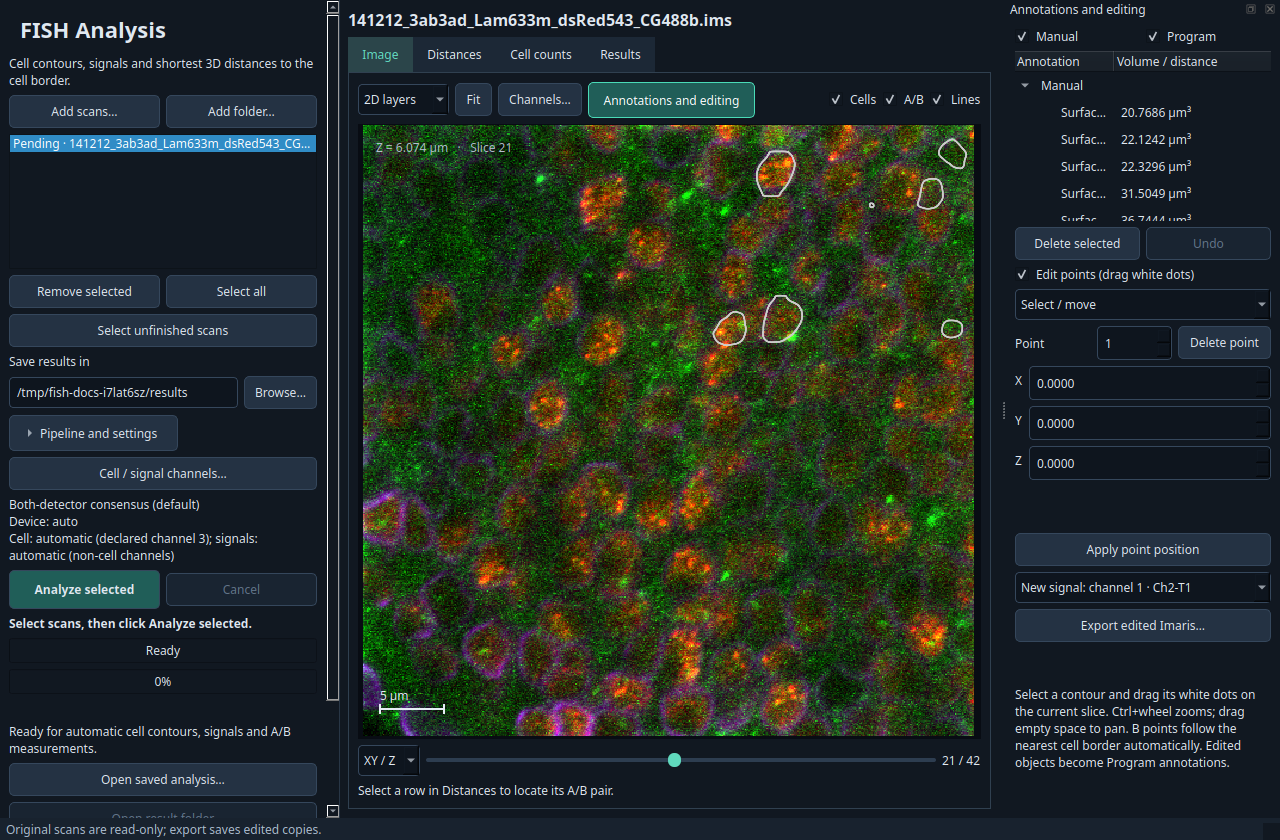
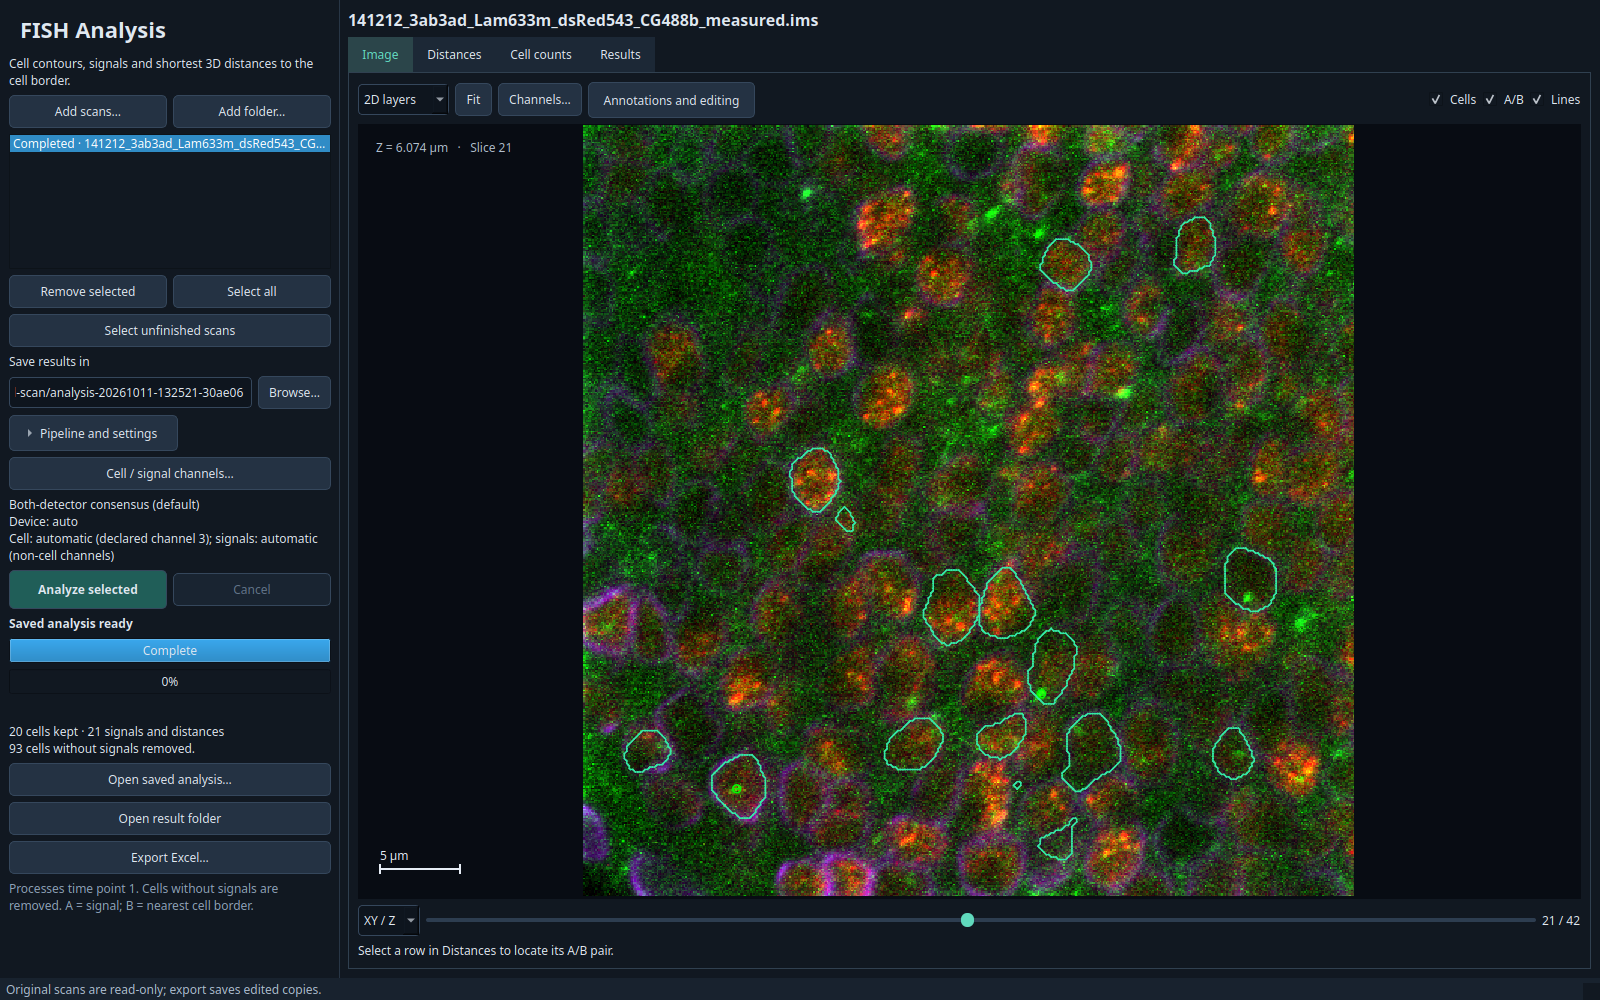
Prepare v0.8.2 with current pipeline evidence and real app screenshots

diff --git a/scripts/capture_docs_screenshots.py b/scripts/capture_docs_screenshots.py
@@ -1,5 +1,6 @@
 """Capture the actual Analysis window with a read-only scan and isolated settings."""
 import argparse
+import json
 import os
 from pathlib import Path
 import sys
@@ -14,6 +15,8 @@ def main():
     parser = argparse.ArgumentParser(description=__doc__)
     parser.add_argument('--scan', type=Path, default=ROOT / 'FISH/3abx3ad_101212/141212_3ab3ad_Lam633m_dsRed543_CG488b.imx')
     parser.add_argument('--output', type=Path, default=ROOT / 'docs/images/analysis.png')
+    parser.add_argument('--analysis-result', type=Path, help='Open a completed real analysis instead of the original scan.')
+    parser.add_argument('--gallery', action='store_true', help='Also capture contour review and measured distances.')
     args = parser.parse_args()
     os.environ.setdefault('QT_QPA_PLATFORM', 'offscreen')
     from PySide6 import QtCore, QtWidgets
@@ -24,12 +27,17 @@ def main():
     with tempfile.TemporaryDirectory(prefix='fish-docs-') as temporary:
         settings = QtCore.QSettings(str(Path(temporary) / 'settings.ini'), QtCore.QSettings.Format.IniFormat)
         window = AnalysisWindow(off_screen=True, settings=settings)
-        window.resize(1280, 840)
+        window.resize(1600, 1000)
         window.output.setText(str(Path(temporary) / 'results'))
         errors = []
         window.error = errors.append
         window.show()
-        window.add_paths([args.scan.resolve()])
+        window.resize(1600, 1000)
+        if args.analysis_result:
+            manifest = json.loads(args.analysis_result.read_text())
+            window.add_paths([Path(manifest.get('source_scene') or manifest['source'])])
+        else:
+            window.add_paths([args.scan.resolve()])
         deadline = time.monotonic() + 60
         while (window.dataset is None or window.loading or window._jobs) and not errors:
             app.processEvents()
@@ -38,11 +46,56 @@ def main():
             time.sleep(.01)
         if errors:
             raise RuntimeError('\n'.join(errors))
+        if args.analysis_result:
+            window.load_result(args.analysis_result)
+            while window.loading or window._jobs:
+                app.processEvents()
+                if errors:
+                    raise RuntimeError('\n'.join(errors))
+                if time.monotonic() >= deadline:
+                    raise TimeoutError('The saved analysis did not load within 60 seconds.')
+                time.sleep(.01)
+            window.set_scan_status(window.scans.item(0), 'completed')
+            window.output.setText(str(args.analysis_result.parent))
+            window.editor.manual.setChecked(False)
+        window.annotation_dock.hide()
+        app.processEvents()
         window.slice_view.fit()
         app.processEvents()
         args.output.parent.mkdir(parents=True, exist_ok=True)
         if not window.grab().save(str(args.output)):
             raise OSError(f'Could not save screenshot: {args.output}')
+        if args.gallery:
+            if not args.analysis_result:
+                raise ValueError('--gallery requires --analysis-result for actual measurements.')
+            window.annotation_dock.show()
+            candidates = [i for i in range(window.distances.rowCount()) if window.distances.item(i, 0).text().startswith('Program')]
+            # Prefer an A-B pair lying in the displayed XY slice.
+            def slice_offset(row):
+                point = window.distances.item(row, 0).data(QtCore.Qt.ItemDataRole.UserRole)
+                return abs(point['xyz'][2]-point['border_xyz'][2])
+            row = min(candidates, key=slice_offset)
+            window.distances.selectRow(row)
+            window.focus_measurement()
+            window.slice_view.scale(.25, .25)
+            selection = window.slice_view.selected
+            tree = window.editor.tree
+            tree.topLevelItem(0).setExpanded(False)
+            program = tree.topLevelItem(1)
+            for index in range(program.childCount()):
+                item = program.child(index)
+                if item.data(0, QtCore.Qt.ItemDataRole.UserRole) == selection:
+                    tree.setCurrentItem(item)
+                    tree.scrollToItem(item)
+                    break
+            app.processEvents()
+            if not window.grab().save(str(args.output.with_name('editing.png'))):
+                raise OSError('Could not save editing screenshot.')
+            window.annotation_dock.hide()
+            window.tabs.setCurrentIndex(1)
+            app.processEvents()
+            if not window.grab().save(str(args.output.with_name('distances.png'))):
+                raise OSError('Could not save distances screenshot.')
         window.close()
         app.processEvents()
     print(args.output)

diff --git a/scripts/plot_pipeline_comparison.py b/scripts/plot_pipeline_comparison.py
@@ -1,0 +1,58 @@
+"""Render current-preset measurement evidence from the retained JSON reports."""
+import json
+from pathlib import Path
+
+from matplotlib.backends.backend_agg import FigureCanvasAgg
+from matplotlib.figure import Figure
+import numpy as np
+
+ROOT = Path(__file__).resolve().parents[1]
+
+
+def main():
+    consensus = json.loads((ROOT / 'reports/consensus-correct-channels/summary.json').read_text())
+    stardist = json.loads((ROOT / 'reports/stardist2d/distances/report.json').read_text())
+    assert consensus['status'] == stardist['status'] == 'complete'
+    rows = [consensus['summary']['test'], stardist['summary']]
+    assert all(row['scans'] == 71 for row in rows)
+    labels = ['Both-detector\nconsensus', 'Fine-tuned\nStarDist 2D']
+    colors = ['#168b87', '#7163bb']
+    figure = Figure(figsize=(12, 5.8), facecolor='#f7f9fc')
+    FigureCanvasAgg(figure)
+    axes = figure.subplots(1, 2)
+    figure.subplots_adjust(left=.08, right=.97, bottom=.25, top=.73, wspace=.34)
+    for axis, (metric, key, title, unit, limit) in zip(axes, [
+        ('volume', 'mape_percent', 'Cell volume error', 'Mean absolute percentage error (%)', 14),
+        ('distance', 'mae', 'Signal-to-border distance error', 'Mean absolute error (µm)', .25),
+    ]):
+        values = np.array([row[metric][key] for row in rows])
+        interval_key = 'mape_95ci_acquisition_bootstrap' if metric == 'volume' else 'mae_95ci_acquisition_bootstrap'
+        intervals = np.array([row[metric][interval_key] for row in rows])
+        axis.set_facecolor('#f7f9fc')
+        axis.bar(range(2), values, width=.48, color=colors, zorder=3)
+        axis.errorbar(range(2), values, yerr=np.stack([values-intervals[:, 0], intervals[:, 1]-values]),
+                      fmt='none', color='#25364d', capsize=5, zorder=4)
+        for index, (value, interval, row) in enumerate(zip(values, intervals, rows)):
+            label = f'{value:.2f}%' if metric == 'volume' else f'{value:.3f} µm'
+            axis.text(index, interval[1]+limit*.04, label, ha='center', fontsize=13, weight='bold', color='#25364d')
+            axis.text(index, -limit*.23, f"{row[metric]['n']} matched {'cells' if metric == 'volume' else 'signals'}",
+                      ha='center', fontsize=10, color='#596b80')
+        axis.set(xticks=range(2), xticklabels=labels, ylim=(0, limit), ylabel=unit)
+        axis.set_title(title, loc='left', fontsize=14, weight='bold', pad=16, color='#25364d')
+        axis.spines[['top', 'right', 'left']].set_visible(False)
+        axis.spines['bottom'].set_color('#cbd5e1')
+        axis.tick_params(length=0, labelcolor='#25364d', pad=8)
+        axis.grid(axis='y', color='#e1e7ef', zorder=0)
+        axis.set_axisbelow(True)
+    figure.text(.08, .94, 'Two cell pipelines. One measurement workflow.', fontsize=21, weight='bold', color='#192c43')
+    figure.text(.08, .87, '71 historical test scans · roundness ≥ 0.72 · signal-center 3D U-Net', fontsize=12, color='#596b80')
+    figure.text(.08, .06, 'Whiskers: 95% acquisition-bootstrap intervals. Different matched subsets and channel protocols;\n'
+                'these report summaries are not a paired ranking or a measure of whole-field detection accuracy.',
+                fontsize=10, color='#596b80', linespacing=1.6)
+    destination = ROOT / 'docs/images/pipeline-comparison.png'
+    figure.savefig(destination, dpi=180)
+    print(destination)
+
+
+if __name__ == '__main__':
+    main()

diff --git a/fish_viewer/__init__.py b/fish_viewer/__init__.py
@@ -1,3 +1,3 @@
 """FISH Viewer. Image and scene readers also work without starting the GUI."""
 
-__version__ = "0.8.1"
+__version__ = "0.8.2"

diff --git a/docs/release-notes.md b/docs/release-notes.md
@@ -1,77 +1,53 @@
-# FISH Analysis v0.8.1
+# FISH Analysis v0.8.2
 
-[Documentation](README.md) · [Models](models.md) · [Analysis](fish-analysis.md)
+This release improves scan review, documents the current cell pipelines and fixes
+Linux offline startup. All existing checkpoints remain bundled; model weights and
+the default both-detector consensus / signal-center 3D U-Net are unchanged.
 
-The Linux AppImage supports CUDA for **both TensorFlow cell contouring and
-PyTorch signal detection**. On first launch, it automatically downloads the
-neural runtime from this release and shows download/installation progress.
-Each download and extracted library is checked against SHA-256 hashes embedded
-in the AppImage. Models are included in the AppImage. Allow about 11 GB free
-for initial setup; later launches reuse about 8 GB of cached libraries offline.
-You only need to download and launch the AppImage; the `.runtime.part*` assets
-are fetched automatically, with no manual joining or installation.
+## Review and processing
 
-Choose auto/CPU/GPU under Pipeline and settings. Auto uses an available NVIDIA
-GPU and otherwise runs on CPU. A compatible host NVIDIA driver is required;
-Python and a separate CUDA toolkit are not required. The Windows EXE retains
-CPU inference and bundled Microsoft C++ runtime DLLs. CPU packages no longer
-expose an unsupported GPU option or restore an incompatible saved selection.
+- A processing summary shows the selected preset, device and channel roles.
+- Scan rows show pending, running, completed, failed or cancelled status, with
+  channel warnings and failure details. **Select unfinished scans** prepares retries.
+- **Annotations and editing** opens beside the image for contour and point editing.
+- The **Results** tab summarizes manual/program cells, signals and distances, with
+  direct access to exported files, Excel and edited Imaris scenes.
+- Shared worker startup, cancellation and bundled-model discovery were refactored.
 
-`--check-runtime --device gpu` verifies a TensorFlow 3D convolution and the
-default signal-center U-Net on CUDA in separate workers. GitHub Actions builds
-both platforms automatically and checks installed inference, model checkpoints,
-Imaris export and single-sheet Excel export on CPU. GPU execution is checked
-separately on a machine with an NVIDIA GPU.
+## Linux startup
 
-The models, default both-detector consensus pipeline and metrics are unchanged.
+The AppImage automatically detects matching `.runtime.part*` assets beside it,
+including when launched from the desktop. Keep the original filenames. Downloading
+these files beforehand supports offline first-launch installation; otherwise the
+app downloads and verifies them from this release. Completed download chunks are
+retained if setup is interrupted. Allow about 11 GB free for first-launch setup
+and about 8 GB for the installed runtime.
 
-Contour editing now shows only the current slice's border points. Select a
-contour and drag its dots directly; the grab area is 24 screen pixels across
-at every zoom level, with overlapping targets choosing the nearest dot.
-Connected border lines follow the dot during dragging. Editing a 3D slice
-makes its intersections explicit mesh vertices so moving one point keeps the
-other points on that slice fixed. Ctrl+Z restores the entire edit, and edited
-volumes, signal-to-border distances and exported geometry remain synchronized.
+Linux bundles CUDA support for TensorFlow and PyTorch; a compatible NVIDIA driver
+is required for GPU inference. Windows uses CPU inference and includes its required
+Microsoft C++ runtime DLLs. No Python installation is required on either platform.
 
-All existing models and presets are bundled. Both-detector consensus remains
-the default, with the signal-center 3D U-Net. No model weights were changed.
+## Documentation and evidence
 
-## Updated model metrics
+The README includes real screenshots of completed contour review and measurements,
+a workflow diagram for both-detector consensus and fine-tuned StarDist 2D, and a
+measurement-error chart generated from the retained test reports. The chart shows
+sample sizes and confidence intervals; the two reports use different matched
+populations and channel protocols, so it is not a paired accuracy ranking.
 
-All **144 held-out scans** were evaluated using explicit membrane channels,
-including **58 corrected channel assignments**, and the current app's
-**0.72 roundness gate**. Unchanged-channel cell runs were reused only after
-checking model hashes and input fingerprints; signal inference, filtering and
-measurements were rerun on every scan.
+Historical logs, runs and generated caches were removed from the source workspace;
+original training inputs, bundled checkpoints and evaluation reports were retained.
+See the training-data guide for rebuilding caches before retraining.
 
-| Split | Scans | Matched cells / signals | Volume MAPE | Distance MAE | Distance RMSE |
-|---|---:|---:|---:|---:|---:|
-| Test | 71 | 299 / 270 | 8.59% | 0.130 µm | 0.178 µm |
-| Validation | 73 | 359 / 332 | 5.95% | 0.118 µm | 0.160 µm |
-| All held-out | 144 | 658 / 602 | 7.15% | 0.123 µm | 0.168 µm |
+## Verification
 
-Comparisons use matched complete manual cells and matched same-channel signals
-with actual manual A–B measurements. All outliers are included. Test volumes
-remain 7.86% too small on average, and distances average 0.077 µm too short.
-Acquisition-bootstrap 95% intervals: test volume MAPE 5.67–11.80%; distance
-MAE 0.109–0.146 µm. Sparse annotations do not establish detection precision;
-validation guided model selection and the historical test fold was inspected
-in prior experiments. Reports, individual measurement pairs, channel assignments
-and the reproducible benchmark are included under
-`reports/consensus-correct-channels/` and `scripts/benchmark_consensus_channels.py`.
+The corrected local Linux AppImage passed normal cold-cache startup with network
+access blocked, every default pipeline stage on an original scan, Imaris/Excel
+exports and reopening the results. That example retained 20 cells and 21 signals;
+these counts are a functionality check, not an accuracy estimate. The source suite
+passed 330 tests (7 optional checks skipped).
 
-## Distribution and verification
-
-Download the EXE on Windows, or make the AppImage executable on Linux.
-See `docs/releasing.md` for runtime requirements and the FUSE-free launch option.
-
-Contour dragging, fixed neighbor positions, live line updates, repeated edits,
-mesh closure, undo, edited export/reload, and the real Linux GUI were verified.
-
-## Attribution
-
-StarDist 2D: Schmidt, Weigert, Broaddus and Myers, **Cell Detection with Star-convex
-Polygons**, MICCAI 2018, [paper](https://arxiv.org/abs/1806.03535),
-[DOI](https://doi.org/10.1007/978-3-030-00934-2_30). The optional fine-tuned 2D
-checkpoint retains its upstream BSD-3-Clause license. Model provenance and exact
-checkpoint hashes are bundled in `models/origins.json`.
+Release publication requires both Windows and Linux packaged applications to pass
+checkpoint loading, CPU runtime checks and the full synthetic consensus pipeline.
+Linux runtime installation is tested with adjacent assets, no directory override
+and network access blocked. GPU execution was additionally checked locally.

diff --git a/README.md b/README.md
@@ -8,10 +8,11 @@ and export Imaris, Excel and CSV results. Original scans and annotations are rea
 **[Analysis guide](docs/fish-analysis.md)** · **[Documentation](docs/README.md)** ·
 **[Models and evidence](docs/models.md)**
 
-![FISH Analysis displaying a microscopy scan](docs/images/analysis.png)
+![FISH Analysis reviewing consensus cell contours on an original microscopy scan](docs/images/analysis.png)
 
-*The running source app displaying an original scan and its saved manual annotations.
-This screenshot shows viewing, not an automatic analysis result.*
+*A completed both-detector consensus analysis, opened in the running app.
+Turquoise contours show retained cells; the original fluorescence remains visible.
+This example produced 20 cells and 21 signals.*
 
 ## Get started
 
@@ -21,6 +22,8 @@ Download the Windows EXE or Linux AppImage from the release page. Windows includ
 a CPU runtime. Linux downloads and verifies its neural runtime on first launch;
 allow about 11 GB free during setup and about 8 GB for the retained runtime.
 Later launches reuse the installed runtime. See [installation and releases](docs/releasing.md).
+For offline setup, download both matching `.runtime.part*` files beside the
+AppImage and keep their original filenames; the app detects them automatically.
 
 ### Run from source
 
@@ -44,7 +47,7 @@ for a minimal installation without neural dependencies.
 1. Add scans or a folder and select the scans to process.
 2. Check the cell and signal channel roles; fluorescence channel order varies by scan.
 3. Choose an output folder and review **Pipeline and settings**.
-4. Click **Analyze selected**, then inspect **Image**, **Distances** and **Cell counts**.
+4. Click **Analyze selected**, then inspect **Image**, **Distances**, **Cell counts** and **Results**.
 5. Keep exported `.imx` and `.ims` files together; open the `.imx` in Imaris.
 
 The default uses **both-detector consensus** and the **signal-center 3D U-Net**.
@@ -53,15 +56,31 @@ Other fixed presets and manual editing are described in the [Analysis guide](doc
 
 ```mermaid
 flowchart LR
-    A[Scan and channel roles] --> B[Cell contours]
-    B --> C[Signals inside cells]
-    C --> D[Retain cells with signals]
-    D --> E[Shortest 3D distances to borders]
-    E --> F[Imaris / Excel / CSV]
+    A[Scan + cell channel] --> B[Both-detector consensus · default]
+    A --> C[Fine-tuned StarDist 2D]
+    B --> D[3D StarDist + center/box detector<br/>Surface-loss contours + agreement gate]
+    C --> E[XY polygons linked into 3D cells]
+    D --> F[Roundness filter]
+    E --> F
+    F --> G[Signal-center 3D U-Net]
+    G --> H[Retain cells with signals]
+    H --> I[Shortest 3D distances to borders]
+    I --> J[Review + Imaris / Excel / CSV]
 ```
 
 Each stage runs in a separate worker process. Results are saved separately from
 source data; cancellation preserves completed runs.
+
+### Review contours and measurements
+
+| Inspect a signal and its nearest border | Review manual and program measurements |
+|---|---|
+| ![Signal A, nearest border B and editable cell contours in the running app](docs/images/editing.png) | ![Manual and automatic signal-to-border measurements in the Distances tab](docs/images/distances.png) |
+
+Select a measurement to locate its A–B segment in the image. Open
+**Annotations and editing** to inspect contours or adjust points; edited geometry,
+volumes, distances and exports stay synchronized. Manual annotations and automatic
+results can be shown separately. See the [review and export guide](docs/fish-analysis.md).
 
 ## Models and measured limits
 
@@ -69,11 +88,14 @@ All current checkpoints are in [`models/`](models/); their evaluation reports,
 plots and tables are in [`reports/`](reports/). Start with the [model inventory](docs/models.md)
 and [evaluation guide](docs/evaluation.md).
 
-![Signal model precision and recall on the fixed test cohort](docs/images/signal-models.png)
+![Both-detector consensus and fine-tuned StarDist 2D: matched volume and signal-to-border distance errors](docs/images/pipeline-comparison.png)
 
-*Historical signal-detector comparison on 228 reference signals with fixed cell
-masks. These scores do not measure the complete current consensus pipeline.
-[Source data and protocol](reports/signal-centers/README.md).*
+*Measurement evidence for the two cell presets on 71 historical test scans,
+with the signal-center U-Net and roundness gate of 0.72. Whiskers show 95%
+acquisition-bootstrap intervals. Matched cells/signals and channel protocols differ
+between reports, so these averages are not a paired ranking or whole-field detection
+accuracy. Sources: [correct-channel consensus](reports/consensus-correct-channels/README.md)
+and [fine-tuned StarDist 2D](reports/stardist2d/distances/README.md).*
 
 Incomplete manual annotations leave many detected cells unscored. Review real
 contours and channel choices before interpreting detection totals as accuracy.

diff --git a/docs/evaluation.md b/docs/evaluation.md
@@ -18,7 +18,20 @@ one experiment does not describe every current Analysis preset.
 | Did preprocessing or linked 2D contours help? | [Preprocessing](../reports/preprocessed-stardist/README.md), [StarDist 2D](../reports/stardist2d/README.md) |
 | What are the historical physical measurement errors? | [Measurement accuracy](measurement-accuracy.md) |
 
-## Signal comparison
+## Current cell-pipeline measurements
+
+![Consensus and fine-tuned StarDist 2D measurement errors](images/pipeline-comparison.png)
+
+This chart uses the test summaries from
+[correct-channel consensus](../reports/consensus-correct-channels/summary.json)
+and [fine-tuned StarDist 2D distances](../reports/stardist2d/distances/report.json).
+Both cover 71 historical test scans, the signal-center U-Net and a 0.72 roundness
+gate. Each bar states its matched population; whiskers are 95% acquisition-bootstrap
+intervals. The reports use different channel protocols and match different cells
+and signals. They do not form a paired comparison or establish whole-field detection
+accuracy. Rebuild the figure with `scripts/plot_pipeline_comparison.py`.
+
+## Historical signal comparison
 
 ![Fixed-mask signal model comparison](images/signal-models.png)
 
